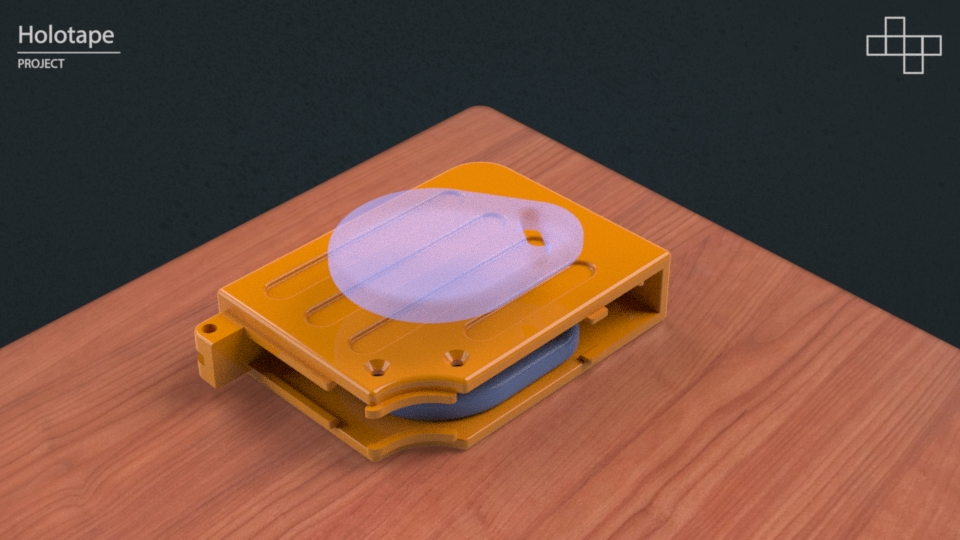
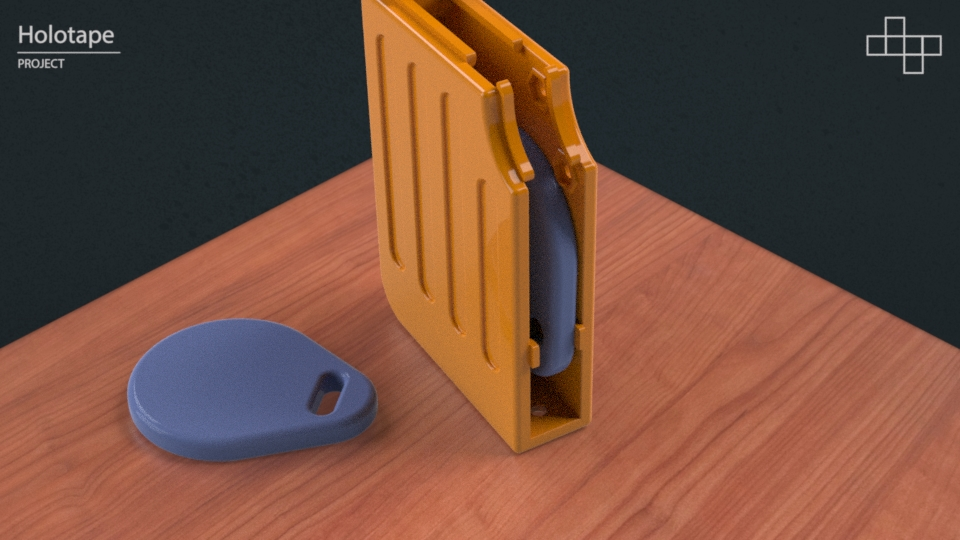
Fix image

Changed region(s): [[0.0938, 0.0, 0.7188, 0.8889]]

diff --git a/docs/holotape.md b/docs/holotape.md
@@ -128,7 +128,7 @@ The Holotape requires physical hardware for a few reasons.
 
 ### (Optional) Data Key Fob
 
-Super glue key fob into Main body. Placement will ensure the NFC reader will align when inserted into the slot.
+Super glue key fob into Panel body. Placement will ensure the NFC reader will align when inserted into the slot.
 
 [<img src="assets/step-key-fob-thumb.jpg">](assets/step-key-fob-thumb.jpg)
 
